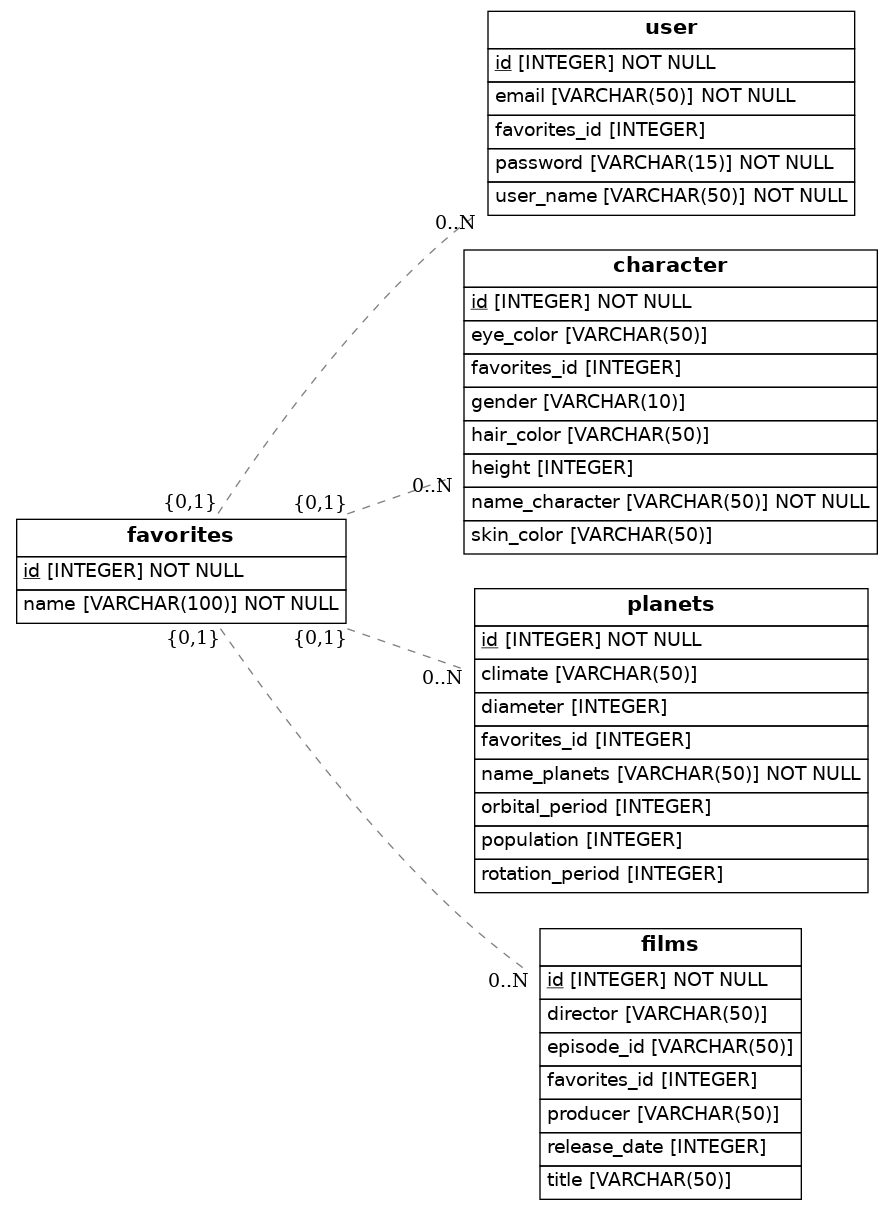
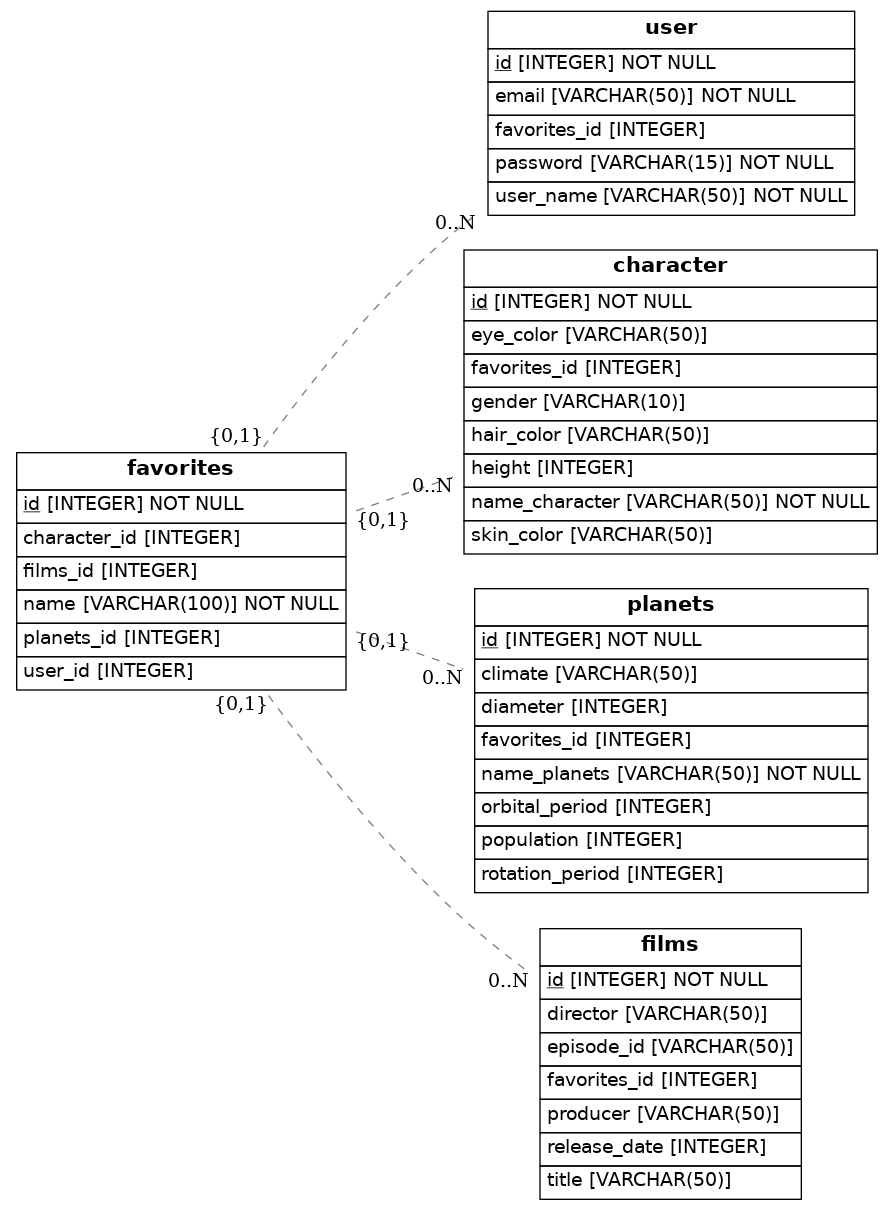
my-dagram1

Changed region(s): [[0.0, 0.3366, 0.3931, 0.4897], [0.0, 0.5203, 0.3024, 0.5815], [0.3326, 0.5203, 0.4535, 0.5509]]

diff --git a/src/models.py b/src/models.py
@@ -53,10 +53,12 @@ class Favorites(Base):
     __tablename__ = 'favorites'
     id = Column(Integer, primary_key=True)
     name = Column(String(100), nullable= False)
-    
-    
-    
+    user_id = Column(Integer)
+    films_id = Column(Integer)
+    character_id = Column(Integer)
+    planets_id = Column(Integer)
 
-
+def to_dict(self):
+    return {}
 ## Draw from SQLAlchemy base
 render_er(Base, 'diagram.png')
